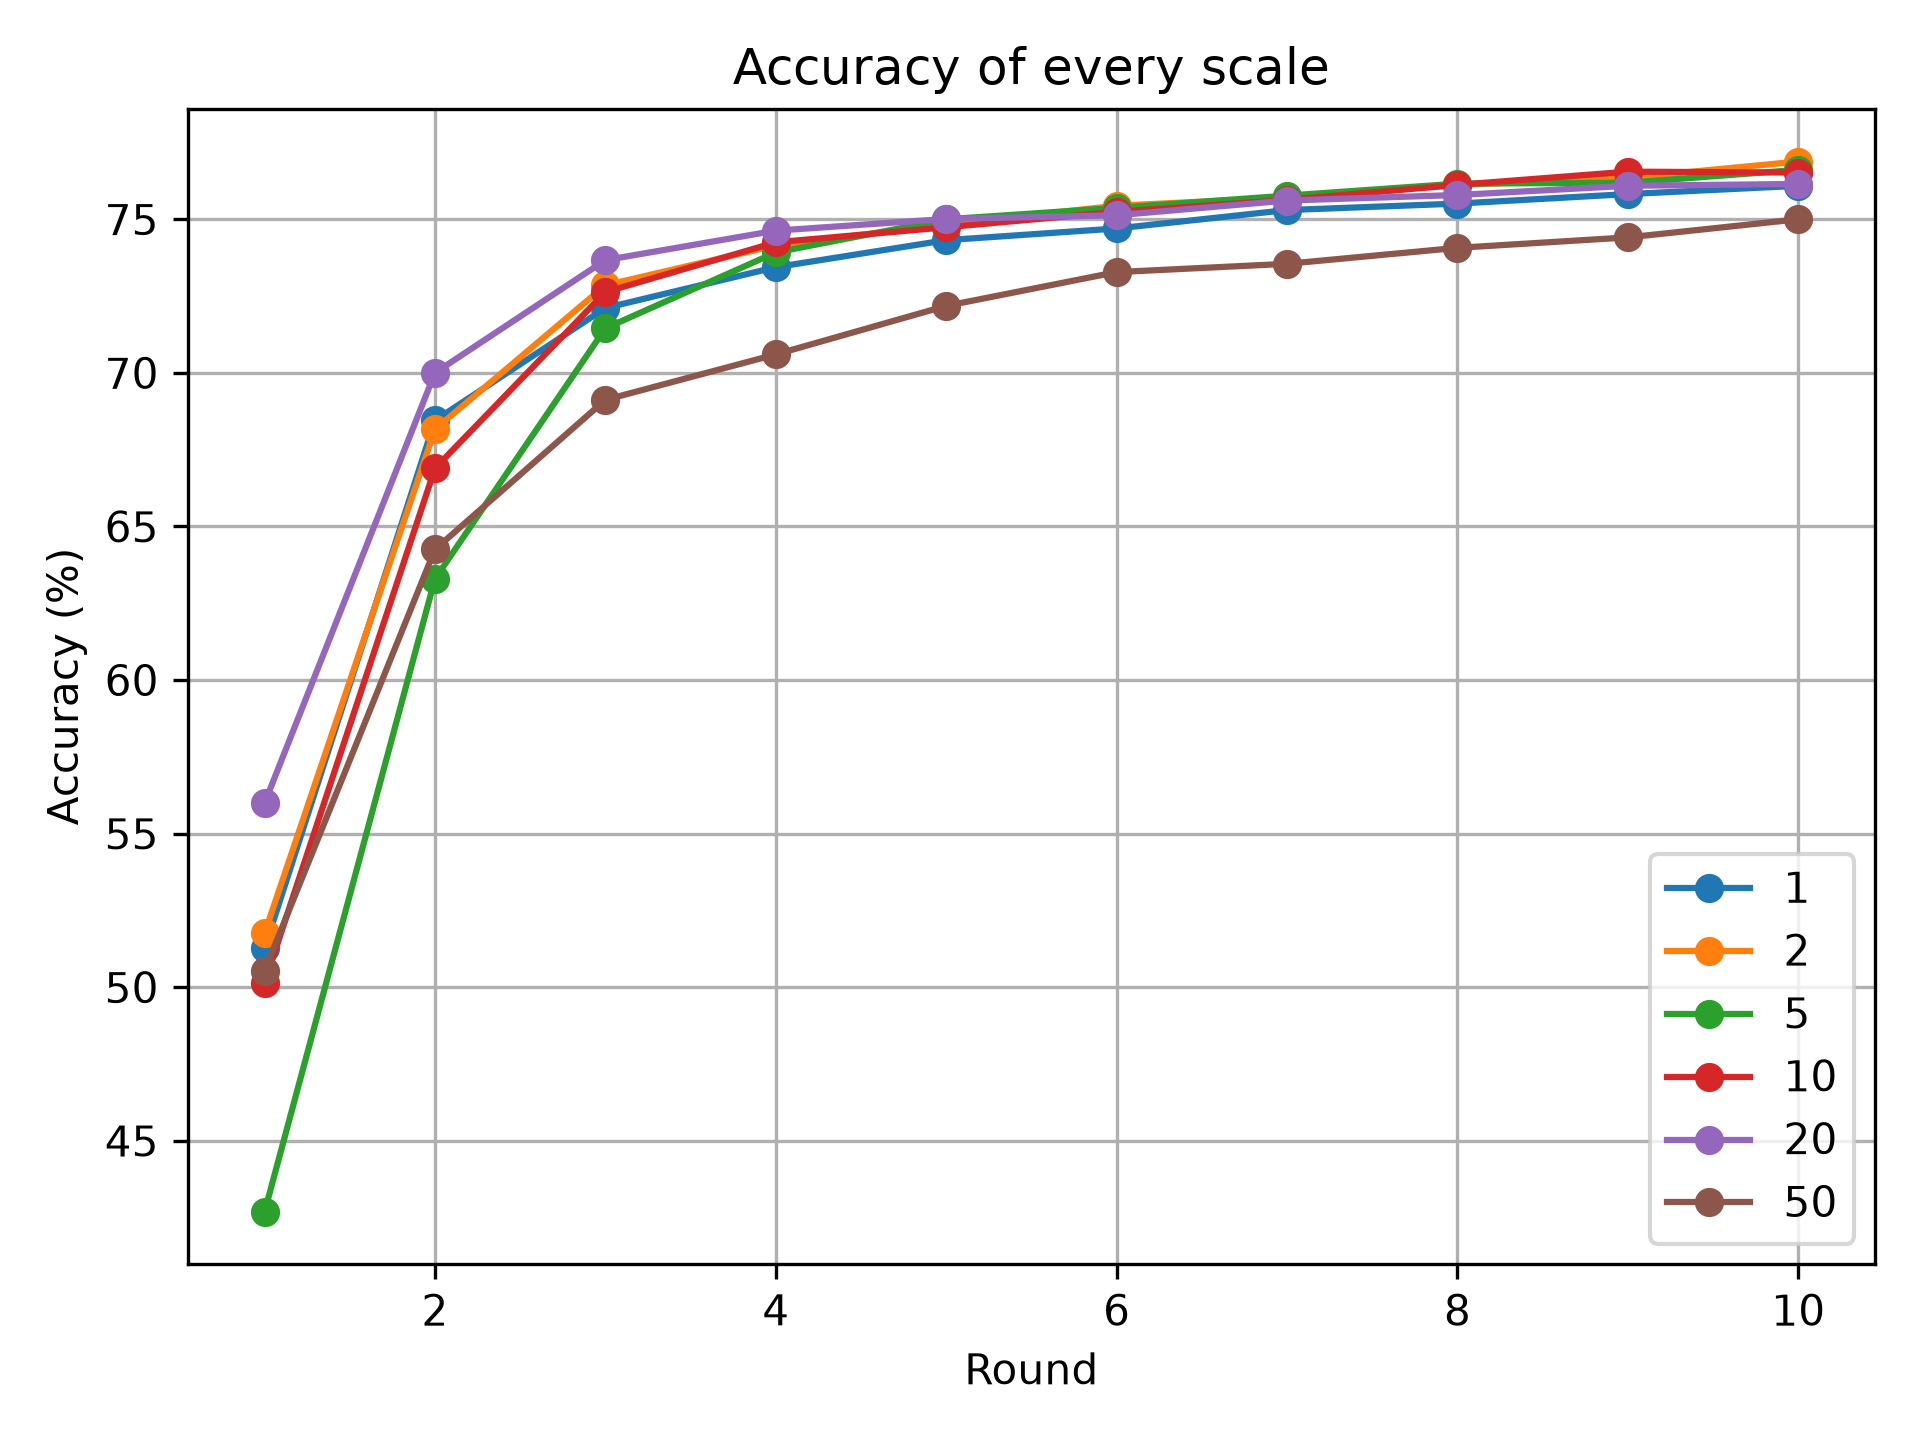
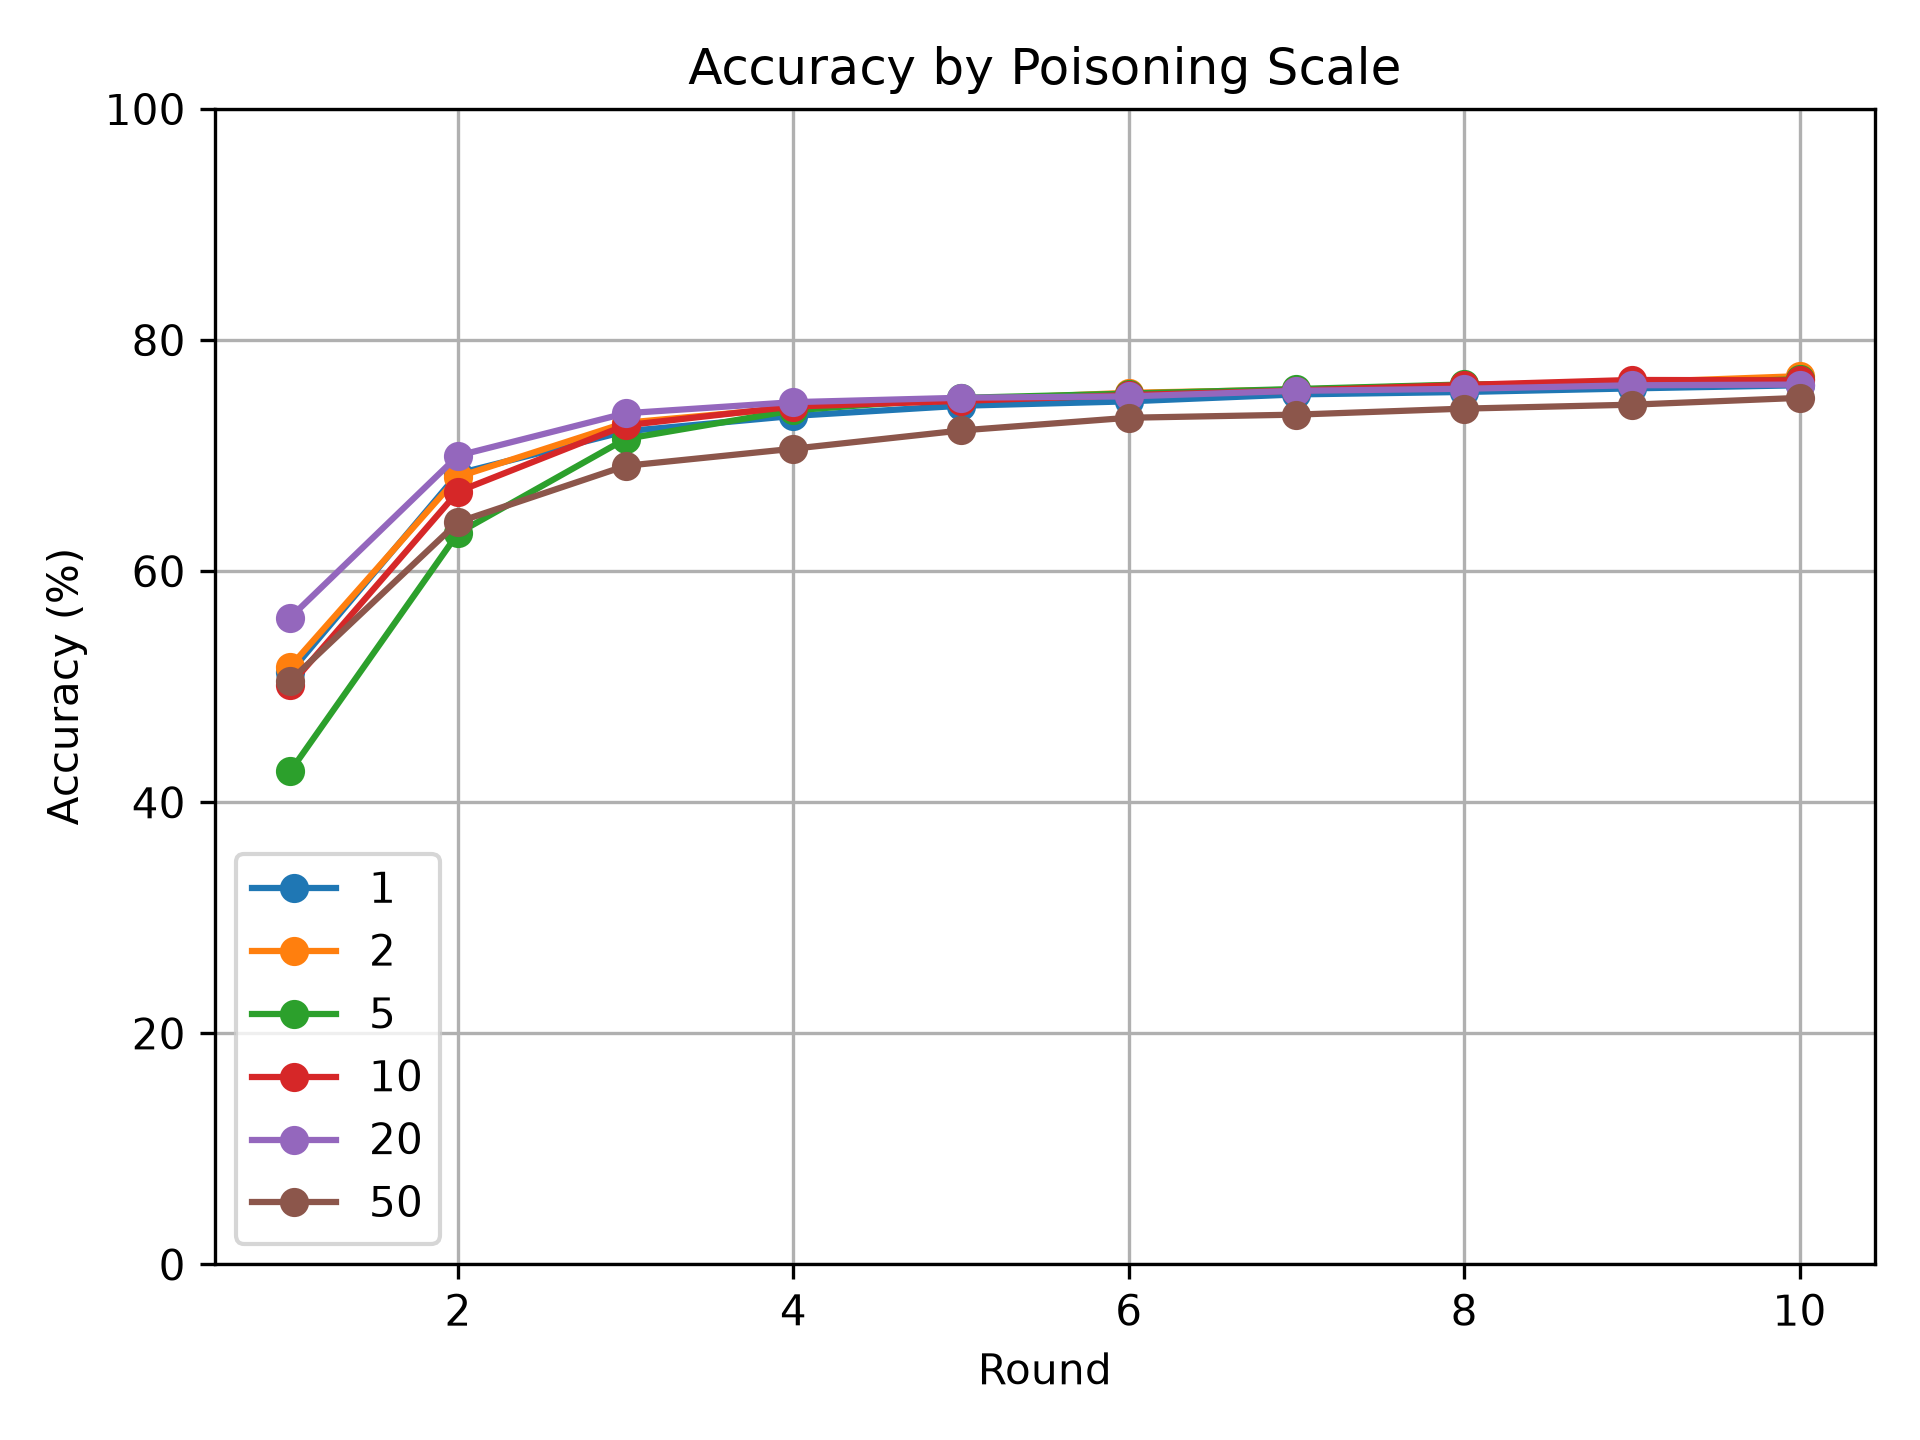
result of every poisoning scale

diff --git a/results/accuracy.py b/results/accuracy.py
@@ -56,7 +56,9 @@ plt.plot(
 
 plt.xlabel("Round")
 plt.ylabel("Accuracy (%)")
-plt.title("Accuracy of every scale")
+plt.ylim(0, 100)
+plt.title("Accuracy by Poisoning Scale")
+
 plt.legend()
 plt.grid(True)
 
